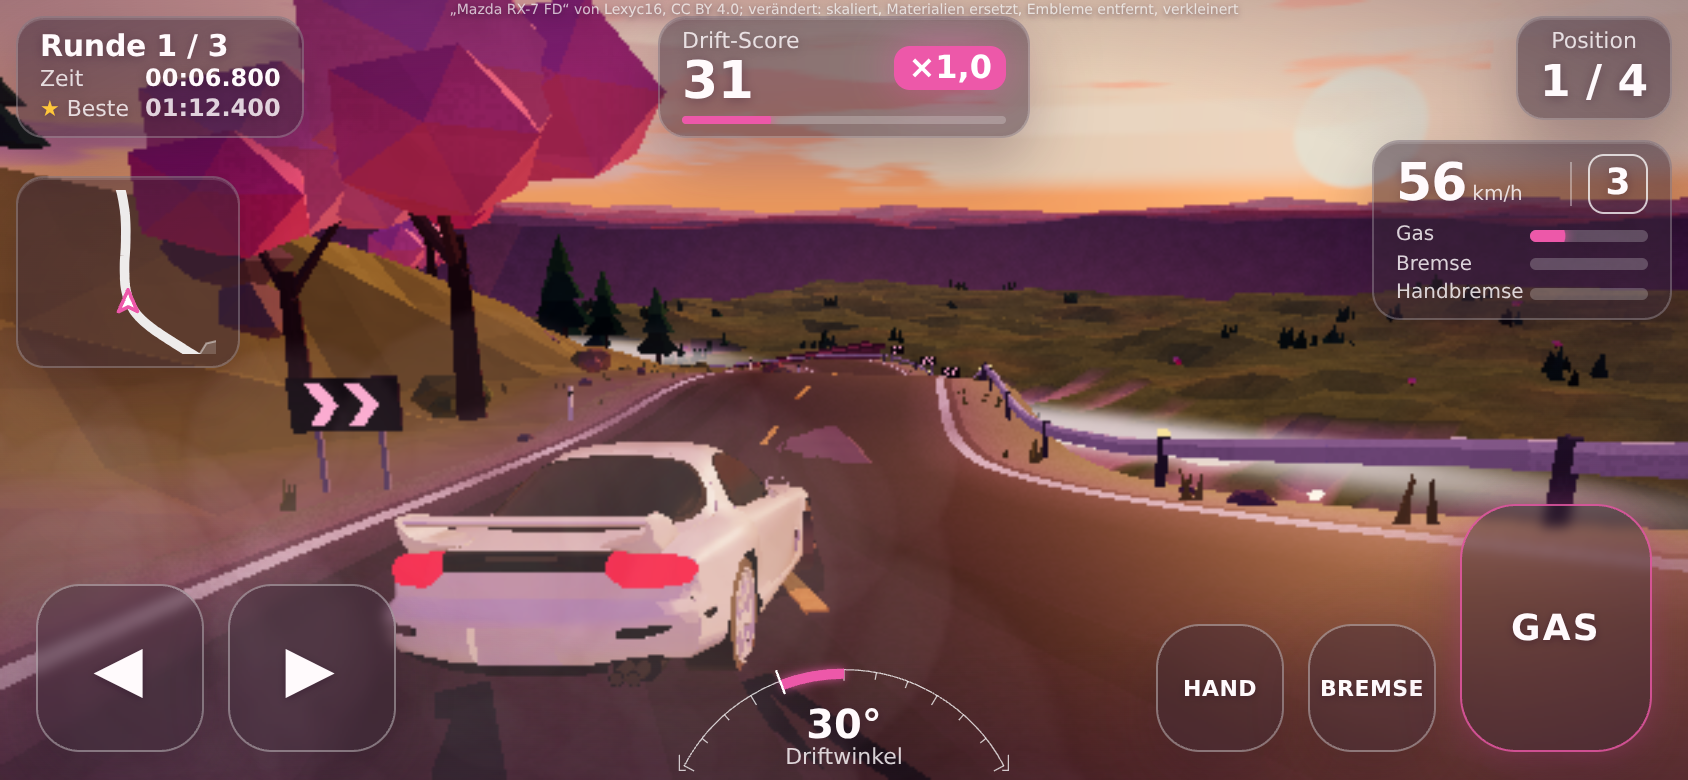
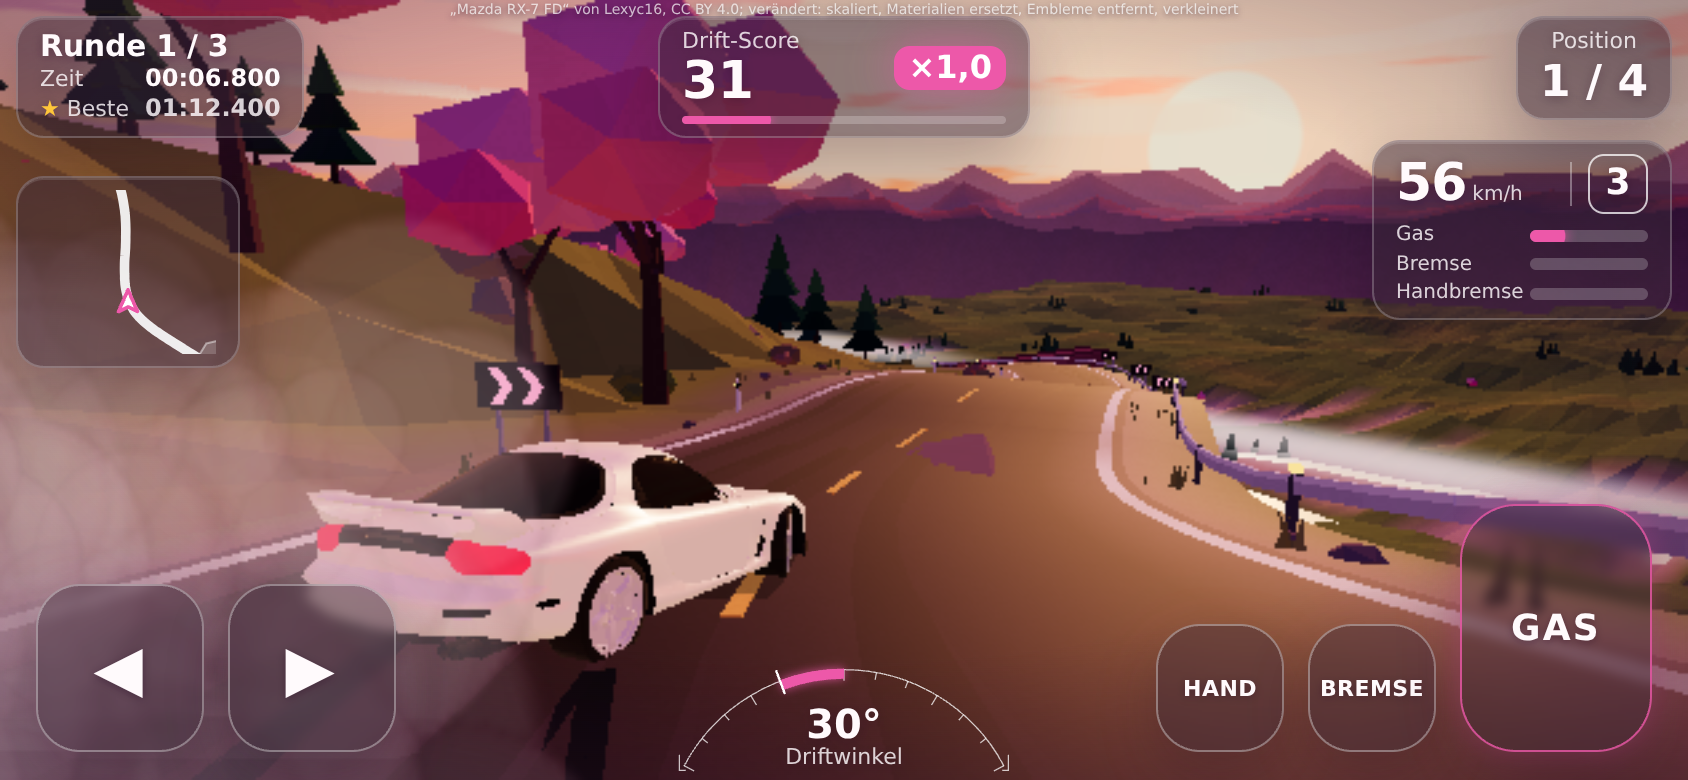
Look probe round 22: sharp staggered peaks, the car from behind-left with its flank, sun in the right third, bigger rosier smoke that never covers the car (Billows.aim); LOOK-LOG.md

diff --git a/game/view/look/billows.js b/game/view/look/billows.js
@@ -29,15 +29,18 @@ export class Billows {
     this.car = { value: new THREE.Vector3(0, -999, 0) };
     const S = look.smoke;
     this.material = new THREE.ShaderMaterial({
-      uniforms: { tMap: { value: billowTexture(S.colour, S.shade) }, uCar: this.car, uClear: { value: S.clear ?? 0 }, uNear: { value: S.near ?? 3 }, uTint: { value: new THREE.Color(S.tint ?? '#ffffff').multiplyScalar(S.bright ?? 1) } },   // brighter than white: lit by the low sun
+      uniforms: { tMap: { value: billowTexture(S.colour, S.shade) }, uCar: this.car, uCarView: { value: new THREE.Vector4(0, 0, 0, 0) }, uClear: { value: S.clear ?? 0 }, uNear: { value: S.near ?? 3 }, uTint: { value: new THREE.Color(S.tint ?? '#ffffff').multiplyScalar(S.bright ?? 1) } },   // brighter than white: lit by the low sun
       vertexShader: /* glsl */ `
         attribute vec4 aData; attribute vec2 aAlpha;
+        uniform vec4 uCarView;   // the car in view space (xyz) and its radius on screen (w, in view units at its depth)
         varying vec2 vUv; varying float vA; varying vec3 vW; varying float vDist;
         void main() {
           vUv = uv; vA = aAlpha.x; vW = aData.xyz;
           float c = cos(aAlpha.y), s = sin(aAlpha.y);
           vec2 p = vec2(position.x * c - position.y * s, position.x * s + position.y * c) * aData.w;
           vec4 mv = modelViewMatrix * vec4(aData.xyz, 1.0);
+          // a puff in front of the car that would cover it on screen fades out: the car is always seen, the smoke beside and behind it stays
+          if (uCarView.w > 0.0 && -mv.z < -uCarView.z - 0.5) { vec2 onCar = mv.xy * (-uCarView.z / -mv.z) - uCarView.xy; float r = uCarView.w + aData.w * 0.25 * (-uCarView.z / -mv.z); vA *= smoothstep(r * 0.6, r * 1.0, length(onCar)); }
           mv.xy += p; vDist = -mv.z;
           gl_Position = projectionMatrix * mv;
         }`,
@@ -57,6 +60,12 @@ export class Billows {
     this.mesh = new THREE.Mesh(geo, this.material);
     this.mesh.frustumCulled = false; this.mesh.renderOrder = 4;
     this.opacity = S.opacity ?? 0.9;
+    this.scale = S.size ?? 1;   // how big the billows grow
+  }
+  /** The car's place for the fade (drawing space) and the camera: puffs in front of the car that would cover it fade out. */
+  aim(camera, radius = 1.6) {
+    const v = this.material.uniforms.uCarView.value, p = this.car.value.clone().add(new THREE.Vector3(0, 0.7, 0)).applyMatrix4(camera.matrixWorldInverse);
+    v.set(p.x, p.y, p.z, radius);
   }
   rnd() { this.seed = (this.seed * 16807) % 2147483647; return this.seed / 2147483647; }
   emit(x, y, z, vx, vz, strength) {
@@ -78,7 +87,7 @@ export class Billows {
     for (let i = 0; i < this.cap; i++) {
       const k = this.age[i] / this.life[i];
       d[i * 4] = this.pos[i * 3]; d[i * 4 + 1] = this.pos[i * 3 + 1]; d[i * 4 + 2] = this.pos[i * 3 + 2];
-      d[i * 4 + 3] = k >= 1 ? 0 : (2.0 + k * 6.5) * this.grow[i];
+      d[i * 4 + 3] = k >= 1 ? 0 : (2.0 + k * 6.5) * this.grow[i] * this.scale;
       al[i * 2] = k >= 1 ? 0 : this.opacity * Math.sqrt(1 - k) * Math.min(1, k * 5); al[i * 2 + 1] = this.spin[i] + k * 0.6;
     }
     this.data.needsUpdate = true; this.alpha.needsUpdate = true;

diff --git a/game/view/look/world.js b/game/view/look/world.js
@@ -158,7 +158,8 @@ function ridges(S, scene, look, tier) {
     const N = scene.ridges.notch, na = N ? Math.atan2(N.z - cz, N.x - cx) : 0;
     const open = (a) => { if (!N || k >= N.rings) return 0; let d = Math.abs(a - na) % (Math.PI * 2); if (d > Math.PI) d = Math.PI * 2 - d; return 1 - smoothstep(N.width * 0.5, N.width, d); };
     const lower = (a, h) => (N ? h + (N.floor - h) * open(a) : h);
-    const peak0 = (a) => { const v = 1 - Math.abs(noise2(Math.cos(a) * 2.6 + k * 11, Math.sin(a) * 2.6 - k * 5)); const w = noise2(a * 9 + k * 3, k * 7) * 0.5 + 0.5; return h0 + (h1 - h0) * (v * v * v * 0.85 + w * 0.15); };
+    const sharp = scene.ridges.sharp ?? 2.6;   // how many peaks round the ring (higher: more, steeper peaks)
+    const peak0 = (a) => { const v = 1 - Math.abs(noise2(Math.cos(a) * sharp + k * 11, Math.sin(a) * sharp - k * 5)); const w = noise2(a * 9 + k * 3, k * 7) * 0.5 + 0.5; return h0 + (h1 - h0) * (v * v * v * 0.85 + w * 0.15); };
     const peak = (a) => lower(a, peak0(a));
     const mid = base.clone().lerp(skirt, 0.5);
     const rows = [[-300, (a) => lower(a, -320), skirt], [-150, (a) => lower(a, peak0(a) * 0.15 + noise2(a * 31, k) * 12 - 120), mid], [-70, (a) => lower(a, peak0(a) * 0.5 + noise2(a * 23, k) * 10), base], [25, peak, rim]];

diff --git a/game/lookprobe.js b/game/lookprobe.js
@@ -149,6 +149,7 @@ function draw(now) {
   hud.update({ lap: H.lap, laps: H.laps, ms: simTime * 1000, best: H.best, pos: 1, of: H.of },
     { kmh, forward: Math.sign(vf) || 1, slip: bodySlip(cur), x: X(s.x), z: s.z, h: s.h }, lastInp, score,
     scene0.parked.map((p) => [X(p.x), p.z]), running ? dt : 0.016);
+  camera.updateMatrixWorld(); smoke.aim?.(camera);   // the smoke keeps the car in sight
   stage.render();
   avg += (Math.min(250, dt * 1000) - avg) * 0.05; frames++;
   if (!$('pdebug').hidden && now - shown > 400) {

diff --git a/docs/LOOK-LOG.md b/docs/LOOK-LOG.md
@@ -264,3 +264,21 @@ facet 0.07, blotch 0.10, grain 0.02), the road's grain weaker (`road.grain` 0.12
 "Why is the car model so ugly, it was better in the rx7 folder": the painted car style (toon steps, contour, dust) is off; it is an
 option of the look now (`car.painted`, default off) and the car keeps the game's normal PBR materials with the sky's reflection and
 clear coat. Whether the model file keeps its original textures and rim materials is asked of the car session (the normaliser).
+
+## Round 22 (2026-11-26)
+
+Done: sharp, staggered mountain peaks (`ridges.sharp`: more peaks round each ring, five rings, higher and finer on the high tier); the
+car seen from behind-left with its flank and drift angle as in the mockup (chase camera: 1.5 m to the right, turn 10 degrees, 6 m
+behind); the sun moved back into the right third over the peaks; warmer, rosier and bigger smoke billows (`smoke.size`), and a puff
+in front of the car that would cover it on screen fades out (`Billows.aim(camera)`), so the car is always seen and the smoke beside
+and behind it stays.
+
+Distances: mean 30 (round 20: 28; the new camera trades a little colour match for the mockup's angle); top-left 14, smoke 12,
+middle-left 20, middle-right 22, road-near 26, bottom-left 29, bottom-right 30, top-right 37, sky-top 44, near-sun 62.
+
+Biggest differences left:
+1. Sky top and near the sun: paler cream than the mockup's pink and orange.
+2. Smoke: thinner than the mockup's dense billows at the lower left.
+3. The bridge is not in sight from this camera.
+4. The cherry tree at the top left hangs in front of the drift-score card; the mockup's sits further left.
+5. Car model (RX-7) and HUD values (short drift), as before.
